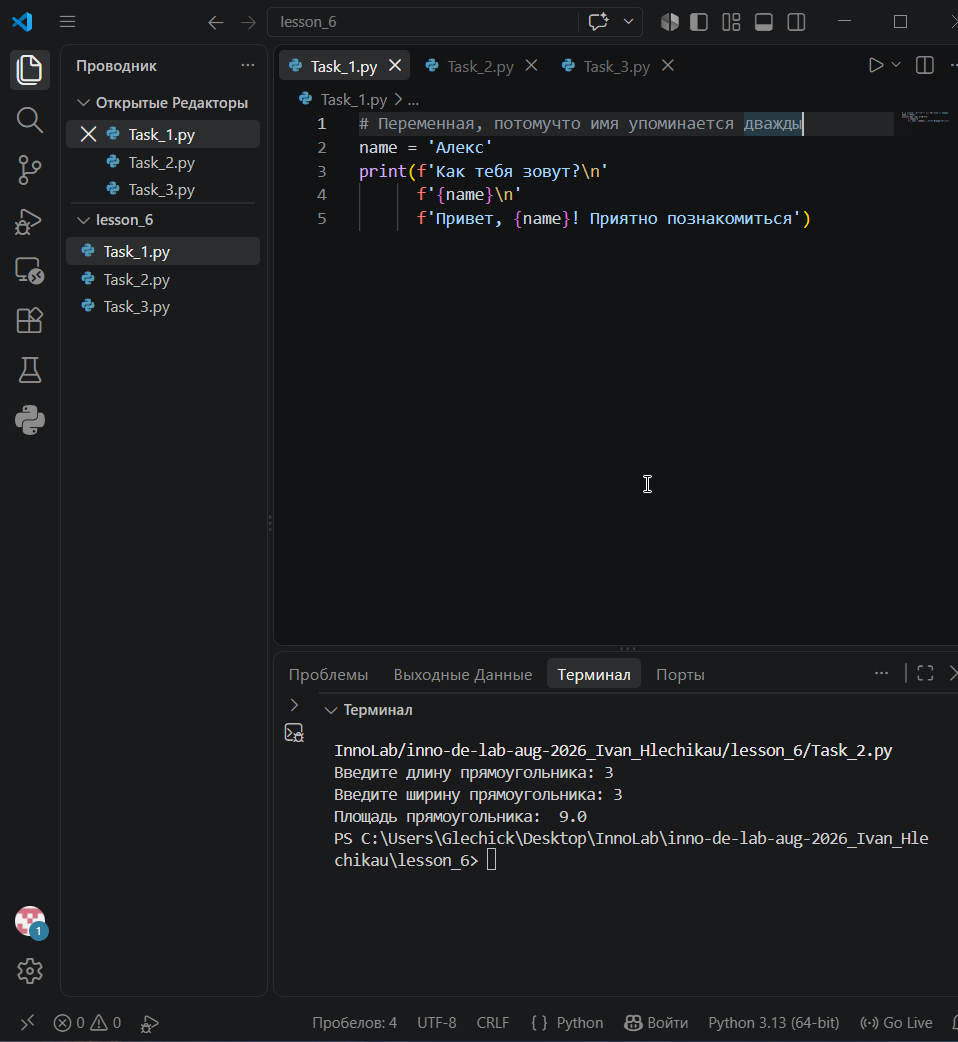
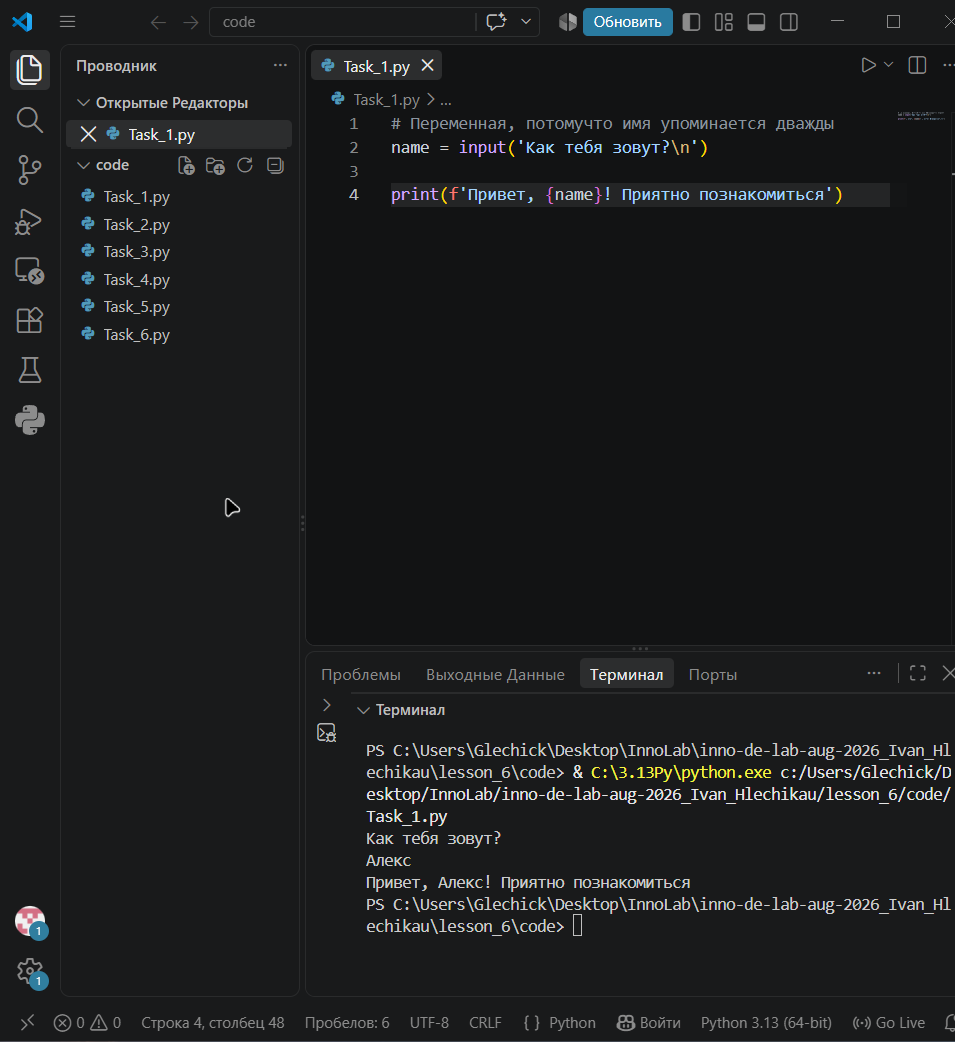
Изменено первое задание и скриншот к нему

diff --git a/lesson_6/code/Task_1.py b/lesson_6/code/Task_1.py
@@ -1,5 +1,4 @@
 # Переменная, потомучто имя упоминается дважды
-name = 'Алекс'
-print(f'Как тебя зовут?\n'
-      f'{name}\n'
-      f'Привет, {name}! Приятно познакомиться')
+name = input('Как тебя зовут?\n')
+
+print(f'Привет, {name}! Приятно познакомиться')
